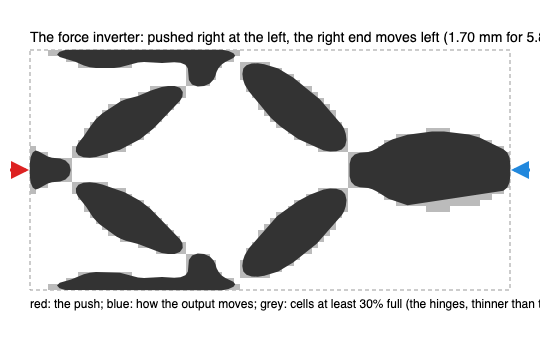
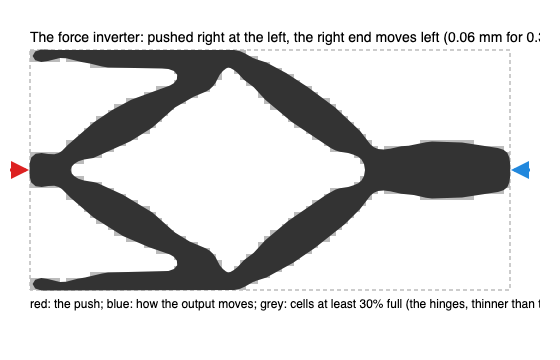
The inverter experiment: the robust formulation, and the point hinges it replaces

diff --git a/experiments/inverter/index.html b/experiments/inverter/index.html
@@ -13,10 +13,12 @@
 <h1>The force inverter: a mechanism grown from a block</h1>
 <p><strong>30 October 2026 · @rulecad/topopt 0.2.8 · <code>packages/topopt/reference/inverter.mjs</code></strong></p>
 <p>The classic first test of compliant-mechanism synthesis (Sigmund 1997). A 40 × 20 mm block of PLA, 4 mm thick, is held at its two left corners and pushed to the right at the middle of its left edge with 10 N, against a spring of 2.7 N/mm. The right edge's middle should move to the left, against a spring of its own. The optimiser is given 30% of the block and asked for the layout that moves the output furthest.</p>
-<p><img src="picture.png" alt="The force inverter"></p>
-<p>It makes the X: two arms from the input to the corners, two from the corners to the output, and two more across. Pushed 5.8 mm to the right at the input, the output moves 1.7 mm to the left: an advantage of 0.29. An even block moves its right edge the way it is pushed; the optimiser reverses it in about 25 steps and spends the rest sharpening. 228 steps on 0.5 mm cells (3,200 of them), 29 seconds.</p>
-<h2>What's wrong with it</h2>
-<p>The grey cells show where the material really is: the arms meet at hinges a single cell wide and about 30% full. That's what mechanism synthesis does when nothing stops it: a point hinge is the most compliant joint there is, so the optimiser makes them, and the drawn outline (smoothed, at half density) drops them, leaving blobs. Printed as drawn, this part is six pieces. The fixes are known: a minimum width for every member (the robust formulation, which optimises eroded and dilated copies of the design together), or a strain limit, which punishes the hinge's strain. That's the next step before any generated mechanism is printed.</p>
+<p><img src="picture.png" alt="The force inverter, optimised robustly"></p>
+<p>It makes the X: two arms from the input to the corners, two from the corners to the output, and two more across, every arm a real member. Pushed 0.31 mm to the right at the input, the output moves 0.06 mm to the left: an advantage of 0.2. An even block moves its right edge the way it is pushed; the optimiser reverses it in about 25 steps and spends the rest sharpening. 223 steps on 0.5 mm cells (3,200 of them), 29 seconds.</p>
+<h2>The point hinges, and what was done about them</h2>
+<p><img src="before.png" alt="The first attempt: point hinges"></p>
+<p>The first attempt (above) moved its output 1.7 mm, eight times as far, and it's a fraud: the grey cells show the arms meeting at hinges a single cell wide and about 30% full. That's what mechanism synthesis does when nothing stops it: a point hinge is the most compliant joint there is, so the optimiser makes them, and the drawn outline (smoothed, at half density) drops them, leaving blobs. Printed as drawn, that part is six pieces.</p>
+<p>So a mechanism is now optimised robustly (after Wang, Lazarov and Sigmund 2011): its travel is taken on an eroded copy of the design, its volume on a dilated one, and the design as made lies between. A hinge that survives erosion has real width, and the result is one piece, cell to cell. The price shows in the numbers: the design as made is stiffer than the eroded copy it was optimised on by a hinge width's worth of stiffness, which goes as the width cubed, so it moves 0.06 mm where the eroded copy moved 1.6. A worst-of-three objective (all three copies must flex) would close that gap; a first try at it with a smooth maximum went wrong (the eroded copy fell apart and its zero travel pinned the objective), so it's left for a proper bound formulation.</p>
 <h2>Settings</h2>
-<table><tr><th></th><th></th></tr><tr><td>Space</td><td>40 × 20 mm, 4 mm thick, PLA (E 2,680 MPa)</td></tr><tr><td>Held</td><td>the two left corners, 1 mm squares</td></tr><tr><td>Input</td><td>10 N to the right at the left edge's middle (a 1 × 2 mm patch), against 2.7 N/mm</td></tr><tr><td>Output</td><td>the right edge's middle, to the left, against 2.7 N/mm</td></tr><tr><td>Material</td><td>30% of the space, members at least 1.5 mm (a filter of three cells)</td></tr><tr><td>Result</td><td>1.70 mm out for 5.85 mm in; 29.7% of the space; 228 steps, settled</td></tr></table>
+<table><tr><th></th><th></th></tr><tr><td>Space</td><td>40 × 20 mm, 4 mm thick, PLA (E 2,680 MPa)</td></tr><tr><td>Held</td><td>the two left corners, 1 mm squares</td></tr><tr><td>Input</td><td>10 N to the right at the left edge's middle (a 1 × 2 mm patch), against 2.7 N/mm</td></tr><tr><td>Output</td><td>the right edge's middle, to the left, against 2.7 N/mm</td></tr><tr><td>Material</td><td>30% of the space, members at least 1.5 mm (a filter of three cells)</td></tr><tr><td>Result</td><td>0.06 mm out for 0.31 mm in (robust); 29.9% of the space; 223 steps, settled</td></tr></table>
 </main>

diff --git a/index.html b/index.html
@@ -32,7 +32,7 @@
 <article>
   <a href="experiments/inverter/"><img src="experiments/inverter/picture.png" alt="" loading="lazy" style="object-fit:contain"></a>
   <h3><a href="experiments/inverter/">The force inverter: a mechanism grown from a block</a></h3>
-  <p>2026-10-30 · Pushed right at one edge, the other edge moves left: the first generated compliant mechanism, with its point hinges in view</p>
+  <p>2026-10-30 · The first generated compliant mechanism; its point hinges, and the robust formulation that gives it real ones</p>
   <p class="links"><a href="experiments/inverter/">Results</a></p>
 </article>
 <article>

diff --git a/experiments/inverter/README.md b/experiments/inverter/README.md
@@ -7,23 +7,32 @@ held at its two left corners and pushed to the right at the middle of its left e
 2.7 N/mm. The right edge's middle should move to the left, against a spring of its own. The optimiser is given 30%
 of the block and asked for the layout that moves the output furthest.
 
-![The force inverter](picture.png)
+![The force inverter, optimised robustly](picture.png)
 
-It makes the X: two arms from the input to the corners, two from the corners to the output, and two more across.
-Pushed 5.8 mm to the right at the input, the output moves 1.7 mm to the left: an advantage of 0.29. An even block
-moves its right edge the way it is pushed; the optimiser reverses it in about 25 steps and spends the rest sharpening.
-228 steps on 0.5 mm cells (3,200 of them), 29 seconds.
+It makes the X: two arms from the input to the corners, two from the corners to the output, and two more across,
+every arm a real member. Pushed 0.31 mm to the right at the input, the output moves 0.06 mm to the left: an advantage
+of 0.2. An even block moves its right edge the way it is pushed; the optimiser reverses it in about 25 steps and
+spends the rest sharpening. 223 steps on 0.5 mm cells (3,200 of them), 29 seconds.
 
-## What's wrong with it
+## The point hinges, and what was done about them
 
-The grey cells show where the material really is: the arms meet at hinges a single cell wide and about 30% full.
-That's what mechanism synthesis does when nothing stops it: a point hinge is the most compliant joint there is, so
-the optimiser makes them, and the drawn outline (smoothed, at half density) drops them, leaving blobs. Printed as
-drawn, this part is six pieces. The fixes are known: a minimum width for every member (the robust formulation, which
-optimises eroded and dilated copies of the design together), or a strain limit, which punishes the hinge's strain.
-That's the next step before any generated mechanism is printed.
+![The first attempt: point hinges](before.png)
+
+The first attempt (above) moved its output 1.7 mm, eight times as far, and it's a fraud: the grey cells show the arms
+meeting at hinges a single cell wide and about 30% full. That's what mechanism synthesis does when nothing stops it: a
+point hinge is the most compliant joint there is, so the optimiser makes them, and the drawn outline (smoothed, at
+half density) drops them, leaving blobs. Printed as drawn, that part is six pieces.
+
+So a mechanism is now optimised robustly (after Wang, Lazarov and Sigmund 2011): its travel is taken on an eroded copy
+of the design, its volume on a dilated one, and the design as made lies between. A hinge that survives erosion has
+real width, and the result is one piece, cell to cell. The price shows in the numbers: the design as made is stiffer
+than the eroded copy it was optimised on by a hinge width's worth of stiffness, which goes as the width cubed, so it
+moves 0.06 mm where the eroded copy moved 1.6. A worst-of-three objective (all three copies must flex) would close
+that gap; a first try at it with a smooth maximum went wrong (the eroded copy fell apart and its zero travel pinned
+the objective), so it's left for a proper bound formulation.
 
 ## Settings
+
 
 | | |
 |---|---|
@@ -32,4 +41,4 @@ That's the next step before any generated mechanism is printed.
 | Input | 10 N to the right at the left edge's middle (a 1 × 2 mm patch), against 2.7 N/mm |
 | Output | the right edge's middle, to the left, against 2.7 N/mm |
 | Material | 30% of the space, members at least 1.5 mm (a filter of three cells) |
-| Result | 1.70 mm out for 5.85 mm in; 29.7% of the space; 228 steps, settled |
+| Result | 0.06 mm out for 0.31 mm in (robust); 29.9% of the space; 223 steps, settled |

diff --git a/README.md b/README.md
@@ -3,7 +3,7 @@
 ## Experiments
 
 - **[Bin: a lattice wall for the X1C's whole build volume](experiments/bin/)** (2026-10-30): At 5% of the cylinder, four legs become pointed arches under the rim; the share, not the method, made the first attempt solid. [On the site](https://jonibach.github.io/rulecad-archive/experiments/bin/)
-- **[The force inverter: a mechanism grown from a block](experiments/inverter/)** (2026-10-30): Pushed right at one edge, the other edge moves left: the first generated compliant mechanism, with its point hinges in view. [On the site](https://jonibach.github.io/rulecad-archive/experiments/inverter/)
+- **[The force inverter: a mechanism grown from a block](experiments/inverter/)** (2026-10-30): The first generated compliant mechanism; its point hinges, and the robust formulation that gives it real ones. [On the site](https://jonibach.github.io/rulecad-archive/experiments/inverter/)
 - **[Tree stand: from stool to goblet to Y to tree](experiments/tree/)** (2026-10-29): Where the loads sit decides whether a part branches; the fifth attempt is complete and print-ready. [On the site](https://jonibach.github.io/rulecad-archive/experiments/tree/)
 - **[Bracket bench: four wall brackets of equal mass](experiments/bracket-bench/)** (2026-10-28): Optimised brackets predicted 1.5 times as stiff as a plain web; what printing without supports costs. [On the site](https://jonibach.github.io/rulecad-archive/experiments/bracket-bench/)
 - **[L-bracket: stiffest against stress-limited](experiments/lbracket/)** (2026-10-28): Stress limits cut the peak stress by 46% for the same material. [On the site](https://jonibach.github.io/rulecad-archive/experiments/lbracket/)
